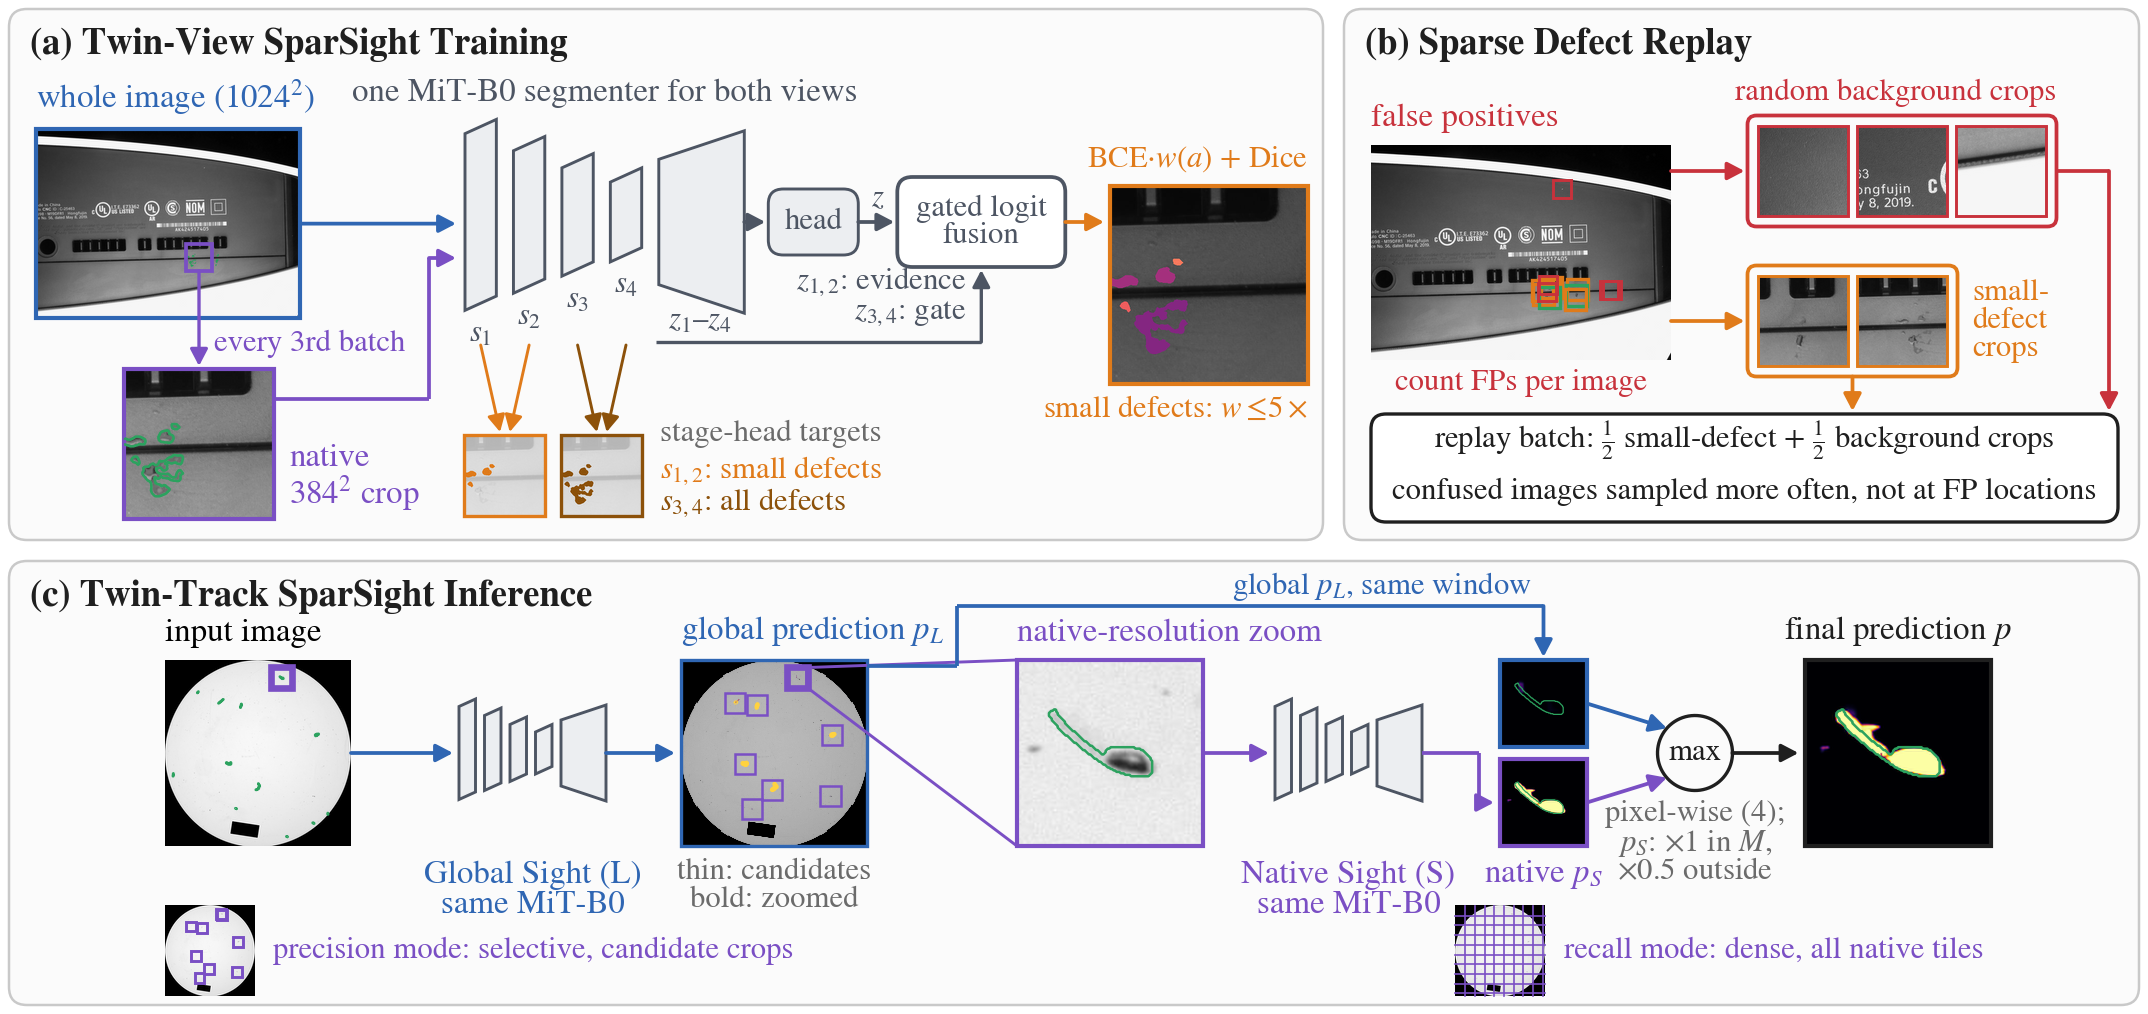
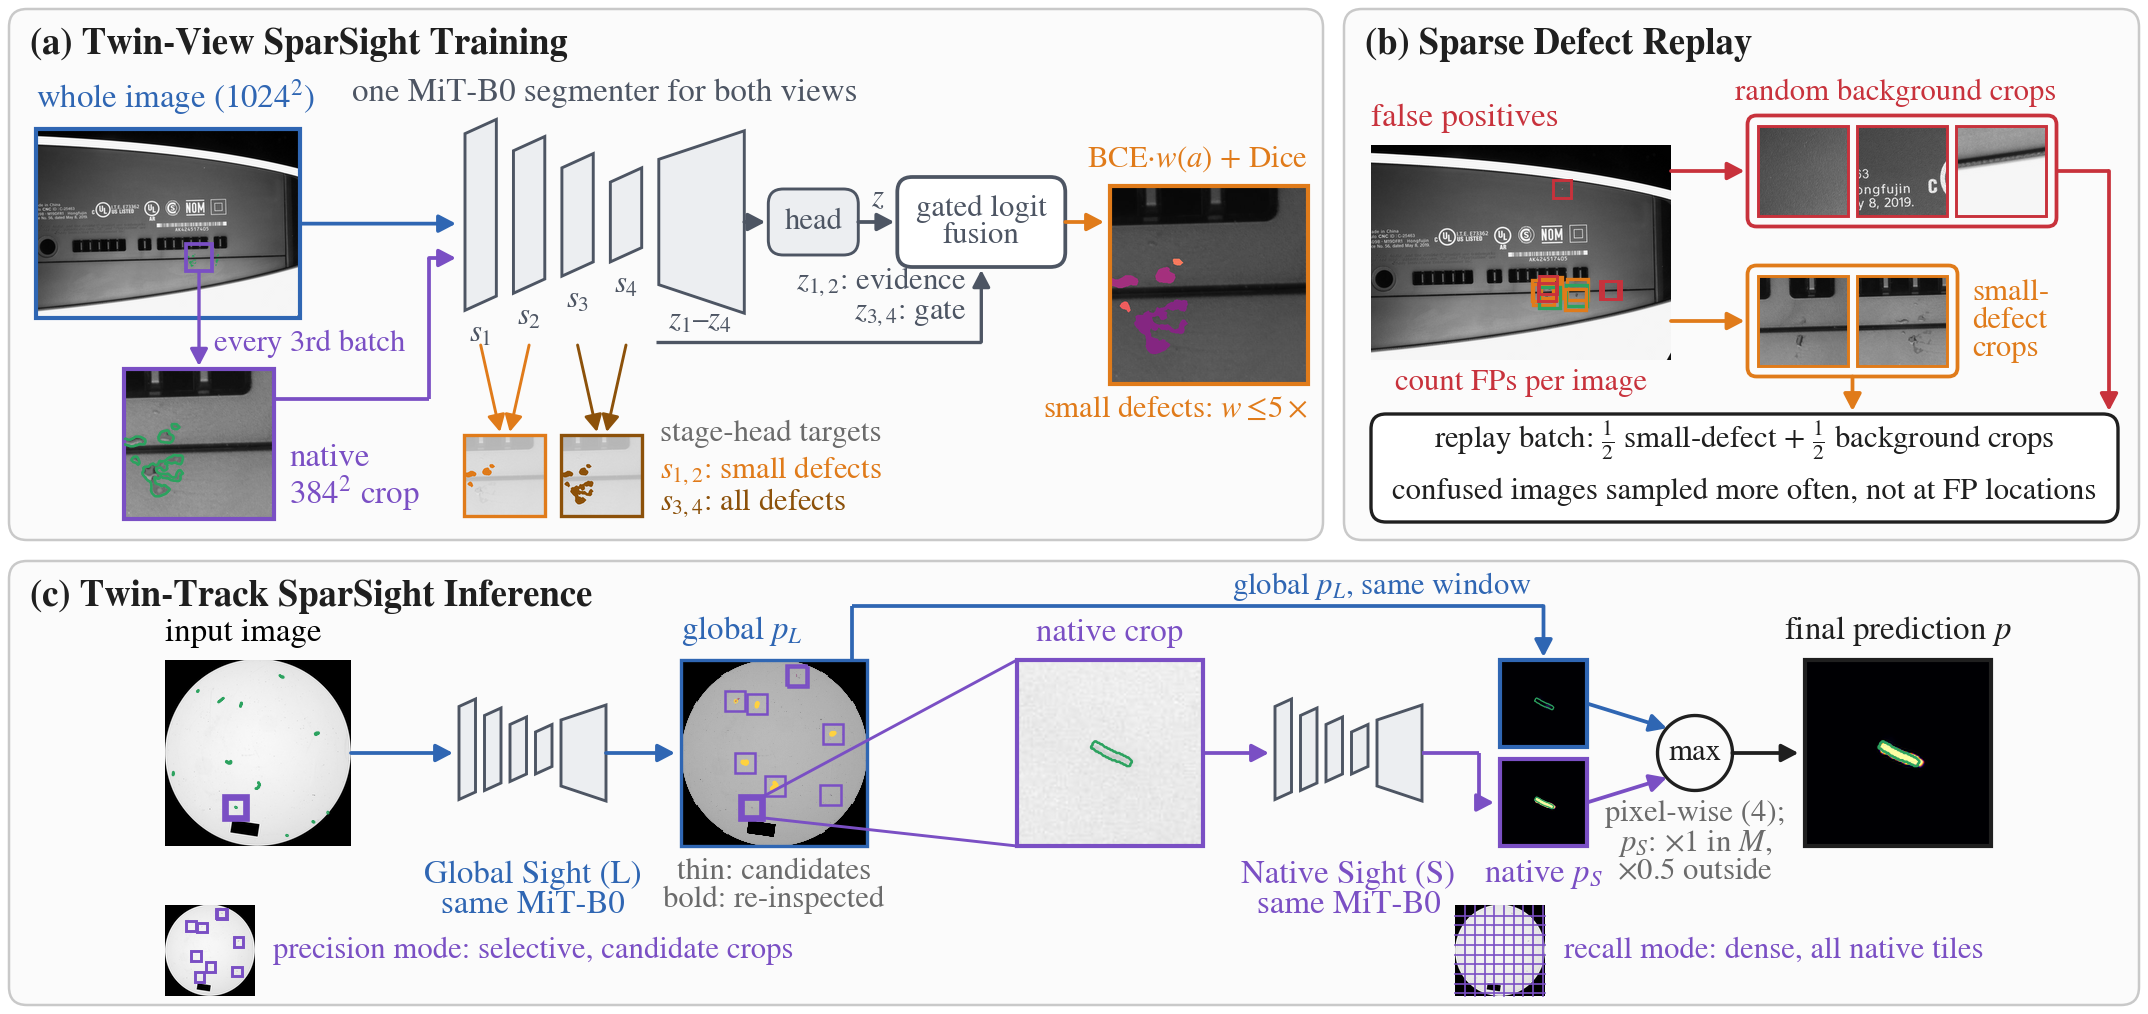
Public audit fixes: stale 'confusion replay' wording and a reference to a non-existent tools/mine_confusion.py replaced; README: B5 more accurate overall, own-FP replay stays below SDR, fusion starts close to identity, outside-support evidence halved, pixel F1; Fig. 1/2 scripts as in the paper

diff --git a/tools/figures/fig2_qualitative.py b/tools/figures/fig2_qualitative.py
@@ -1,23 +1,18 @@
-"""Fig. 2: qualitative comparison on a sparse-defect benchmark (final method, 2026-10-05).
+"""Fig. 2: qualitative comparison on the VISION test split.
 
-  python tools/figures/fig2_qualitative.py --dataset vision --split val
-  python tools/figures/fig2_qualitative.py --dataset vision --split test     # paper (after the test pass)
+  python tools/figures/fig2_qualitative.py --mixed --split test --out outputs/paper/figures      # the paper figure
 
-Columns: input (GT outline) | SegFormer-B0 | B0 at 1536 | U-Net | ours (precision mode) | ours + confusion replay.
-Reads probability maps saved by evaluate.py / evaluate_zoom.py --save-probs
-(outputs/<exp>/predictions/<split>[_<tag>]/<id>.npz). Missing maps are drawn as grey "pending" panels.
+Columns: input (GT outline) | SegFormer-B0 | B0 at 1536^2 | U-Net | SegFormer-B5 | Mask2Former | MagNet |
+ours (precision mode) | ours (recall mode). Reads probability maps saved by evaluate.py / evaluate_zoom.py
+--save-probs (outputs/<exp>/predictions/<split>[_<tag>]/<id>.npz).
 
-Rows are picked automatically and reproducibly (rule fixed before the final results): baseline and
-ours-final are binarised at their own validation thresholds; coverage = fraction of SMALL-defect GT
-pixels predicted positive (components below the Core Q33 component-area edge, as in the metrics);
-only images with at least one small component are eligible;
-  gain1, gain2  defect images with the largest coverage(ours final) - coverage(baseline)
-  loss          among defect images where ours covers part of the small defects (coverage > 0), the one with
-                the smallest coverage(ours final) - coverage(baseline) (a weakness, not a total miss)
-(no "false alarm" row: VISION has no labelled normal images). Ties are broken by image id.
-Each panel is a square crop (original resolution) centred on the smallest GT component, side =
-clip(--zoom x its bounding-box side, --min-window, --window), so tiny defects stay visible.
-The previous KSDD2 / nested-capacity version is in git history (commit 44cba88 and earlier).
+Rows (draw_mixed), by fixed rules on small-defect coverage (fraction of small-defect GT pixels predicted
+positive at each model's validation threshold; small = below the Core 33rd-percentile component area):
+  1  the median gain over SegFormer-B0 among small defects that both of our modes cover >= 25 points better
+  2  the same rule in another category
+  3  a recall-mode false alarm: both modes find the defect, the recall mode adds the most isolated false-alarm area
+The per-image counts in the caption (covers more / less / misses all) are printed by the default (non --mixed) run.
+Each panel is a square crop centred on the selected defect.
 """
 import argparse
 import json

diff --git a/tools/figures/fig1_framework.py b/tools/figures/fig1_framework.py
@@ -310,8 +310,7 @@ def draw(out_dir):
     img(ax, blend(imb, Lb), px, iy, pw, ih, ec=LOW, lw=0.8, interp="nearest")
     contour(ax, I["L"] > 0.5, px, iy, pw, ih, c="#ffd23f", lw=0.9)  # predicted regions, outlined like the GT
     seg(ax, [(xe, ly), (px - 0.02, ly)], c=LOW)
-    ax.text(px, iy + ih + 0.04, "global prediction $p_L$", fontsize=LAB, color=LOW, va="bottom")
-    ax.text(px + pw / 2, iy - 0.04, "thin: candidates\nbold: zoomed", fontsize=SMALL,
+    ax.text(px + pw / 2, iy - 0.04, "thin: candidates\nbold: re-inspected", fontsize=SMALL,
             color=MUTED, ha="center", va="top", linespacing=1.0)
     b = 384 * 900 / I["full_hw"][1] * pw / iW
     for cx_, cy_, _ in I["cand"]:  # all candidates; thin, so the predicted outlines stay visible
@@ -335,8 +334,7 @@ def draw(out_dir):
             return
         ax.text(x + sz / 2, y + sz + 0.04, lab, ha="center", va="bottom", fontsize=LAB, color=col)
 
-    crop_panel(zi, zx0, NAT, "", NAT)
-    ax.text(zx0, zy0 + zs + 0.04, "native-resolution zoom", ha="left", va="bottom", fontsize=LAB, color=NAT)
+    crop_panel(zi, zx0, NAT, "native crop", NAT)  # centred label, wording as in the paper
     cbx = px + (zb[0] + zb[2]) * pw / iW
     # the window shown in the zoomed panels, boxed on the input and the global prediction (bold), and joined to the
     # native-crop panel by two straight zoom lines
@@ -364,9 +362,11 @@ def draw(out_dir):
     crop_panel(heat(I["zoom_S"]), ox, NAT, "native $p_S$", NAT, y=yb, sz=cz, below=True)
     seg(ax, [(xe2, ctr), (ox - 0.07, ctr), (ox - 0.07, yb + cz / 2), (ox - 0.02, yb + cz / 2)], c=NAT)
     yr = 1.70 - DC
-    rx_ = px + pw + 0.30  # leaves the global prediction at its right edge, clear of its label
-    seg(ax, [(px + pw, iy + ih - 0.02), (rx_, iy + ih - 0.02), (rx_, yr), (ox + cz / 2, yr), (ox + cz / 2, yt + cz + 0.01)],
-        c=LOW)
+    # p_L of the same window: from the top edge of the global prediction (right end) straight up; the crop's guide
+    # lines start at a candidate in the lower half (fig1_data), so they never cross it
+    rx_ = px + pw - 0.05
+    seg(ax, [(rx_, iy + ih), (rx_, yr), (ox + cz / 2, yr), (ox + cz / 2, yt + cz + 0.01)], c=LOW)
+    ax.text(px, iy + ih + 0.04, "global $p_L$", fontsize=LAB, color=LOW, va="bottom", ha="left")
     ax.text(ox + cz / 2 - 0.04, yr + 0.01, "global $p_L$, same window", ha="right", va="bottom", fontsize=SMALL,
             color=LOW)
     mx, my_, mr = ox + cz + 0.36, ctr, 0.125

diff --git a/tools/figures/fig1_data.py b/tools/figures/fig1_data.py
@@ -106,7 +106,8 @@ def step_replay():
 def step_pick():
     """Inference example of the final model (test split by default, --split), chosen for visibility: among small defects (< Q33
     area) that the Global Sight Track misses (max p_L < 0.5) and the precision mode finds (max p >= 0.9), in images
-    with 7-13 defect components and no large defect inside its 128-px zoom window,
+    with 7-13 defect components, in the lower half of the image (figure layout), and no large defect inside its
+    128-px zoom window,
     the one with the highest local contrast
     |mean inside - mean of a 2-6 px ring| / std(ring). Rule set on 2026-10-10 after seeing the previous pick
     (largest recovered area: a defect hardly visible in the crop); written to fig1_data/pick.json."""
@@ -129,6 +130,8 @@ def step_pick():
             if m.sum() / g.size >= q33 or m.sum() < 80 or L[sl][m].max() >= 0.5 or P[sl][m].max() < 0.9:
                 continue
             cy_, cx_ = (sl[0].start + sl[0].stop) // 2, (sl[1].start + sl[1].stop) // 2
+            if cy_ < g.shape[0] / 2:  # lower half: the crop's guide lines then stay clear of the p_L connector above
+                continue
             win = lab[max(cy_ - 64, 0):cy_ + 64, max(cx_ - 64, 0):cx_ + 64]  # the zoomed window of Fig. 1 (c)
             ids_w = np.setdiff1d(np.unique(win), [0])
             n_win = ids_w.size

diff --git a/sds/mining.py b/sds/mining.py
@@ -1,4 +1,4 @@
-"""Confusion-mining helpers shared by tools/mine_confusion.py and tools/train.py."""
+"""Replay-provenance helpers shared by tools/mine_native_fp.py and tools/train.py."""
 import numpy as np
 from scipy import ndimage
 
@@ -59,7 +59,7 @@ def check_replay_provenance(replay, cfg, init_checkpoint):
     """Raise if the replay set was not mined from `init_checkpoint` with the current data settings."""
     pv = replay.get("provenance")
     if pv is None:
-        raise SystemExit("replay file has no provenance; re-run tools/mine_confusion.py")
+        raise SystemExit("replay file has no provenance; re-run tools/mine_native_fp.py")
     data = cfg["data"]
     problems = []
     if pv["source_checkpoint_sha"] != file_sha256(init_checkpoint):

diff --git a/sds/data/dataset.py b/sds/data/dataset.py
@@ -180,7 +180,7 @@ def size_weight_map(mask: np.ndarray, a_ref: float = 400.0, beta: float = 1.0, c
 class NativePointCropDataset(Dataset):
     """Native-resolution crops centred (with jitter) on given points of given images:
     entries = [{"row": split row, "cy": y, "cx": x}] in ORIGINAL pixel coordinates.
-    Used to replay the model's own native-resolution false positives and small defects (confusion replay)."""
+    Used by the replay refinement (small-defect crops and background crops at native resolution)."""
 
     def __init__(self, entries, crop=384, aug=None, jitter=None):
         self.entries = entries

diff --git a/tools/train.py b/tools/train.py
@@ -1,4 +1,4 @@
-"""Train a model, or refine a trained checkpoint with confusion replay.
+"""Train a model, or refine a trained checkpoint with Sparse Defect Replay.
 
   python tools/train.py --config configs/vision/ours_stage1.yaml                 # two-view, size-aware training
   python tools/train.py --config configs/vision/ours.yaml \

diff --git a/tools/mine_native_fp.py b/tools/mine_native_fp.py
@@ -1,4 +1,4 @@
-"""Mine native-resolution false positives of the two-track model for confusion replay.
+"""Mine native-resolution false positives of the two-track model for Sparse Defect Replay.
 
   python tools/mine_native_fp.py --exp outputs/vision_ours_stage1 --out data/replay/vision/s42.json
 

diff --git a/README.md b/README.md
@@ -16,7 +16,7 @@ finds them, together with many false alarms that the wider context would have ru
    in the BCE term of the main output. Stage heads on the four encoder stages are trained at the same time (the
    shallow two on small defects only).
 3. *Gated stage-head fusion.* A small gate driven by the deep stages (s3, s4) adds the shallow heads' small-defect
-   evidence (s1, s2) to the main logit; it starts as the identity and can only raise the score. The fused network is
+   evidence (s1, s2) to the main logit; it starts close to the identity and can only raise the score. The fused network is
    used in both inference tracks.
 
 **Sparse Defect Replay** (`configs/<dataset>/ours.yaml`): the trained model segments its training images at native
@@ -24,13 +24,13 @@ resolution and its false positives are counted per image; a 20-epoch refinement 
 defects together with random background crops, allocated to images in proportion to their false positives. Fusion
 alone finds more small defects but also adds false alarms on look-alike background; replay recovers the precision
 (VISION: small-defect AP<sup>3</sup> 23.4 -> 28.6, precision 87.9 -> 89.4). Replaying the false-positive locations
-themselves (`ablation/refine_own_false_positives.yaml`) also suppresses look-alike small defects and does not help.
+themselves (`ablation/refine_own_false_positives.yaml`) stays below Sparse Defect Replay.
 
 
 **Twin-Track SparSight Inference** (`tools/evaluate_zoom.py`): a *Global Sight Track* (L) segments the downscaled
 whole image and a *Native Sight Track* (S), the same network, segments native-resolution 384x384 crops.
 - *Precision mode*: S re-inspects only the 32 strongest candidate peaks of L; native evidence outside the support
-  of L is down-weighted.
+  of L is halved.
 - *Recall mode*: S tiles the whole image; the result is the maximum of L and S.
 
 ## Results
@@ -66,7 +66,7 @@ competitors, standard deviations, ablation) are produced by `tools/paper_tables.
 Latency: one A100, batch 1, end to end from the decoded image to the full-resolution map (resizing included), mean
 over 200 test images; GFLOPs count a multiply-add as 2. The precision mode costs 1.5x the FLOPs of SegFormer-B0
 but its latency is close to that of the larger models, because reading and handling the full-resolution image
-dominates it. On VISION the 22x larger SegFormer-B5 remains more accurate on large defects (overall AP, mIoU).
+dominates it. On VISION the 22x larger SegFormer-B5 remains more accurate overall (AP, mIoU).
 
 ## Setup
 
@@ -154,7 +154,7 @@ reliably).
   3 px of a defect is not a negative.
 - AUPRO up to FPR 0.3, mIoU (background, defect), pixel precision, and the target-level detection rate P<sub>d</sub>
   at threshold 0.5 (centroid distance < 3 px, as in the infrared small-target literature).
-- Thresholds are selected on validation (best F1) and applied unchanged to test, except P<sub>d</sub>; size groups
+- Thresholds are selected on validation (best pixel F1) and applied unchanged to test, except P<sub>d</sub>; size groups
   use the 33rd/66th percentiles of the training split for every method.
 
 Every run records its config, a run id, split hashes and the git commit; refinement refuses a replay file that
